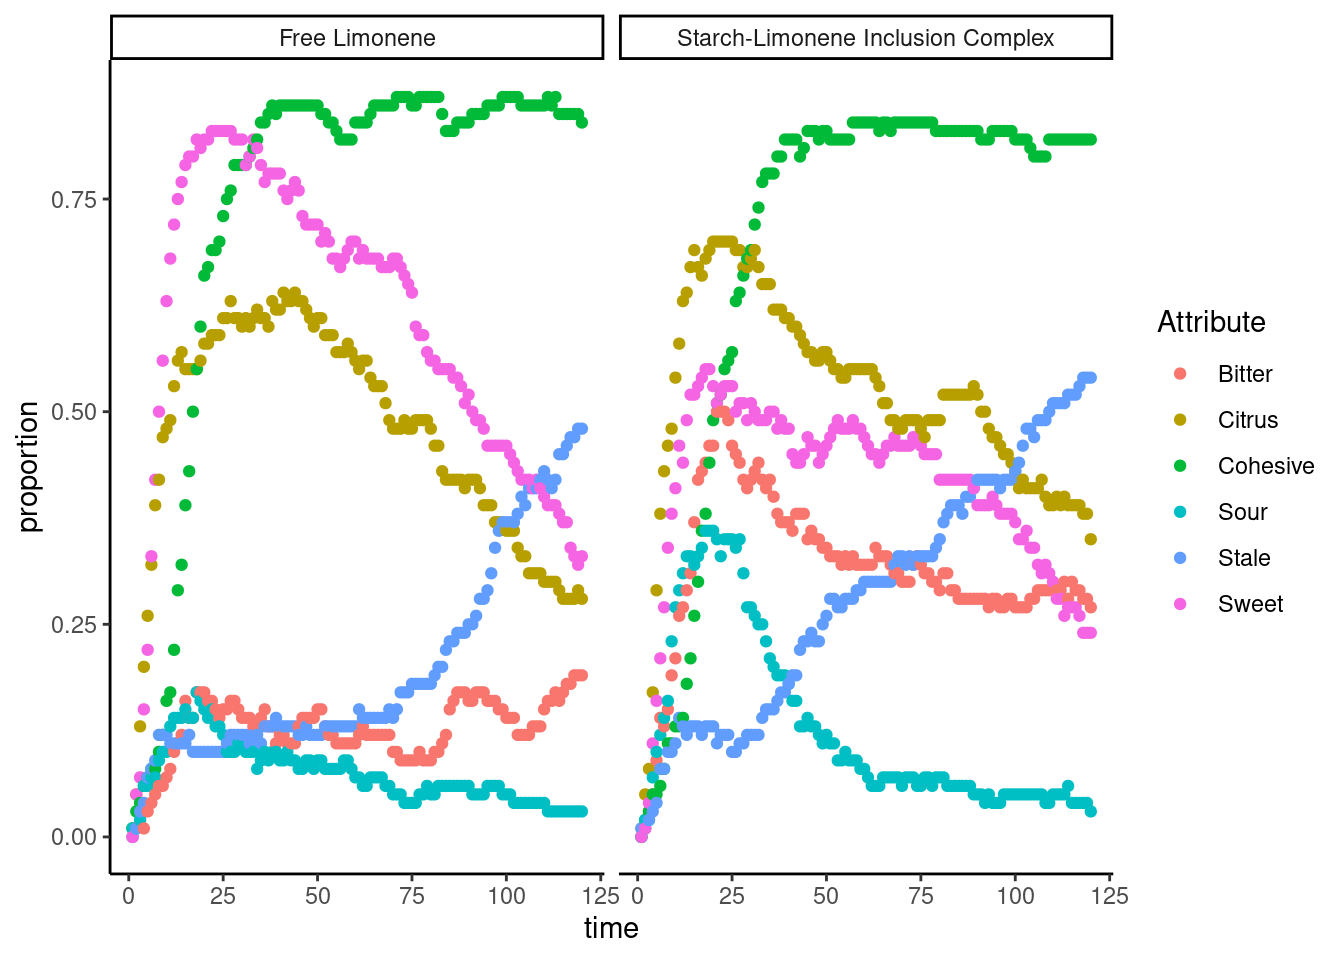
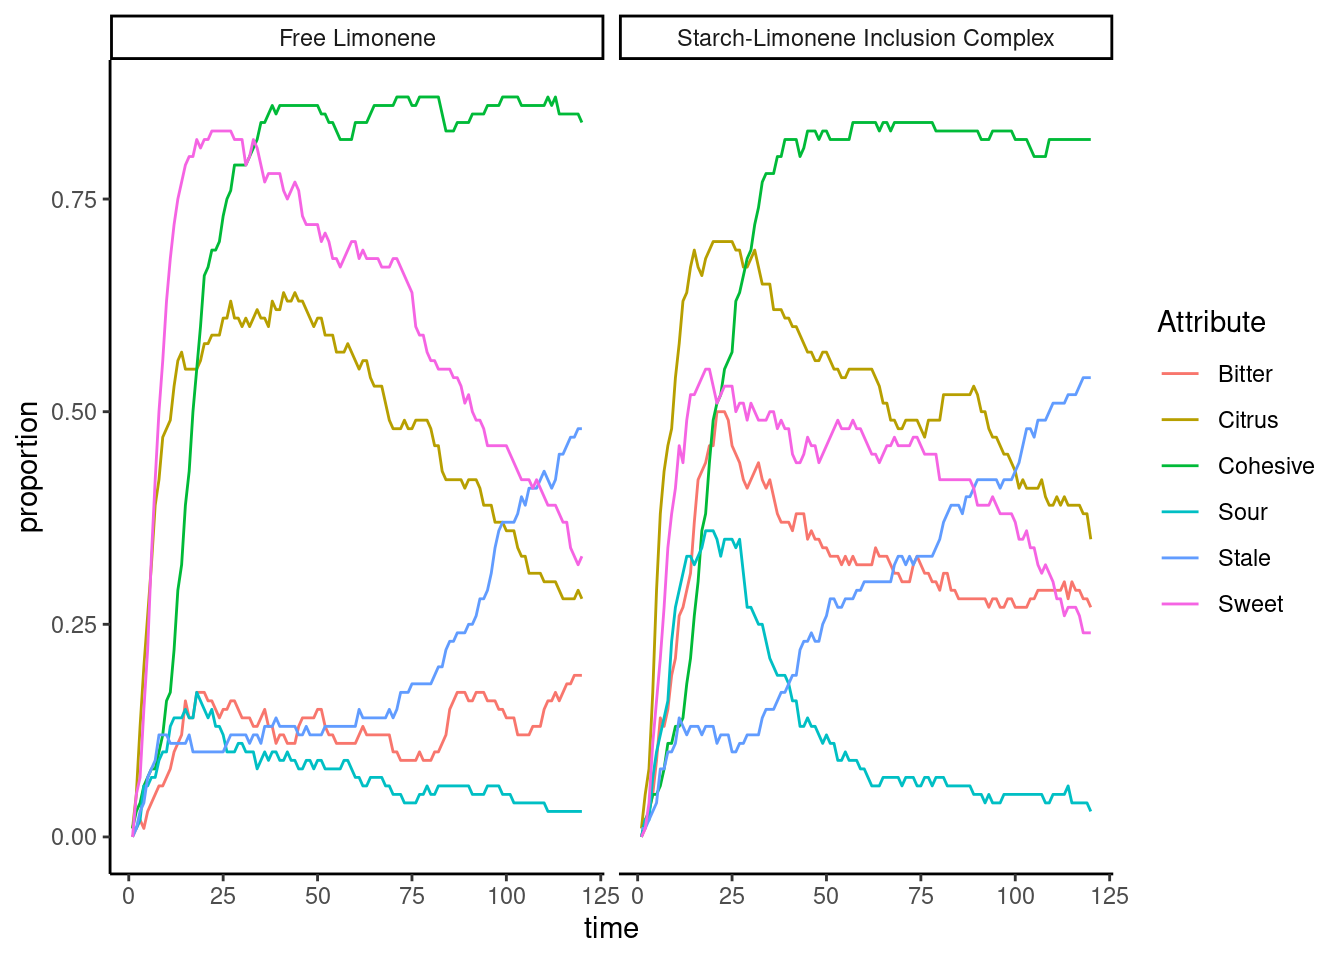
Build site.

diff --git a/docs/tasks.html b/docs/tasks.html
@@ -507,16 +507,16 @@ data/df_flavor.csv
 <div class="panel panel-default">
 <div class="panel-heading">
 <p class="panel-title">
-<a data-toggle="collapse" data-parent="#workflowr-checks" href="#strongRepositoryversionstrongc4a11c9"> <span class="glyphicon glyphicon-ok text-success" aria-hidden="true"></span> <strong>Repository version:</strong> c4a11c9 </a>
+<a data-toggle="collapse" data-parent="#workflowr-checks" href="#strongRepositoryversionstrongf10f92e"> <span class="glyphicon glyphicon-ok text-success" aria-hidden="true"></span> <strong>Repository version:</strong> f10f92e </a>
 </p>
 </div>
-<div id="strongRepositoryversionstrongc4a11c9" class="panel-collapse collapse">
+<div id="strongRepositoryversionstrongf10f92e" class="panel-collapse collapse">
 <div class="panel-body">
 <p>
 Great! You are using Git for version control. Tracking code development and connecting the code version to the results is critical for reproducibility.
 </p>
 <p>
-The results in this page were generated with repository version c4a11c9. See the <em>Past versions</em> tab to see a history of the changes made to the R Markdown and HTML files.
+The results in this page were generated with repository version f10f92e. See the <em>Past versions</em> tab to see a history of the changes made to the R Markdown and HTML files.
 </p>
 <p>
 Note that you need to be careful to ensure that all relevant files for the analysis have been committed to Git prior to generating the results (you can use <code>wflow_publish</code> or <code>wflow_git_commit</code>). workflowr only checks the R Markdown file, but you know if there are other scripts or data files that it depends on. Below is the status of the Git repository when the results were generated:
@@ -564,6 +564,40 @@ Message
 </tr>
 </thead>
 <tbody>
+<tr>
+<td>
+Rmd
+</td>
+<td>
+f10f92e
+</td>
+<td>
+Hannah Van Wyk
+</td>
+<td>
+2024-03-02
+</td>
+<td>
+Start my new project
+</td>
+</tr>
+<tr>
+<td>
+html
+</td>
+<td>
+48e1615
+</td>
+<td>
+Hannah Van Wyk
+</td>
+<td>
+2024-03-02
+</td>
+<td>
+Build site.
+</td>
+</tr>
 <tr>
 <td>
 Rmd
@@ -1152,6 +1186,17 @@ Date
 <tbody>
 <tr>
 <td>
+48e1615
+</td>
+<td>
+Hannah Van Wyk
+</td>
+<td>
+2024-03-02
+</td>
+</tr>
+<tr>
+<td>
 765a045
 </td>
 <td>
@@ -1205,7 +1250,7 @@ flavor_long &lt;- flavor_long %&gt;%
   summarise(proportion = mean(value))
 
 ggplot(flavor_long) + 
-  geom_point(aes(x = time, y=proportion,color=Attribute)) + 
+  geom_line(aes(x = time, y=proportion,color=Attribute)) + 
   facet_wrap(.~Sample_Name) +
   theme_classic()</code></pre>
 <p><img src="figure/tasks.rmd/flavor-1.png" width="672" style="display: block; margin: auto;" /></p>
@@ -1271,7 +1316,7 @@ for (flavor in unique(flavor_long$Attribute)) {
 }</code></pre>
 <pre class="r"><code>print(xtable(results),include.rownames=FALSE, type = &quot;html&quot;)</code></pre>
 <!-- html table generated in R 4.3.1 by xtable 1.8-4 package -->
-<!-- Sat Mar  2 14:14:23 2024 -->
+<!-- Sat Mar  2 14:14:52 2024 -->
 <table border="1">
 <tr>
 <th>
